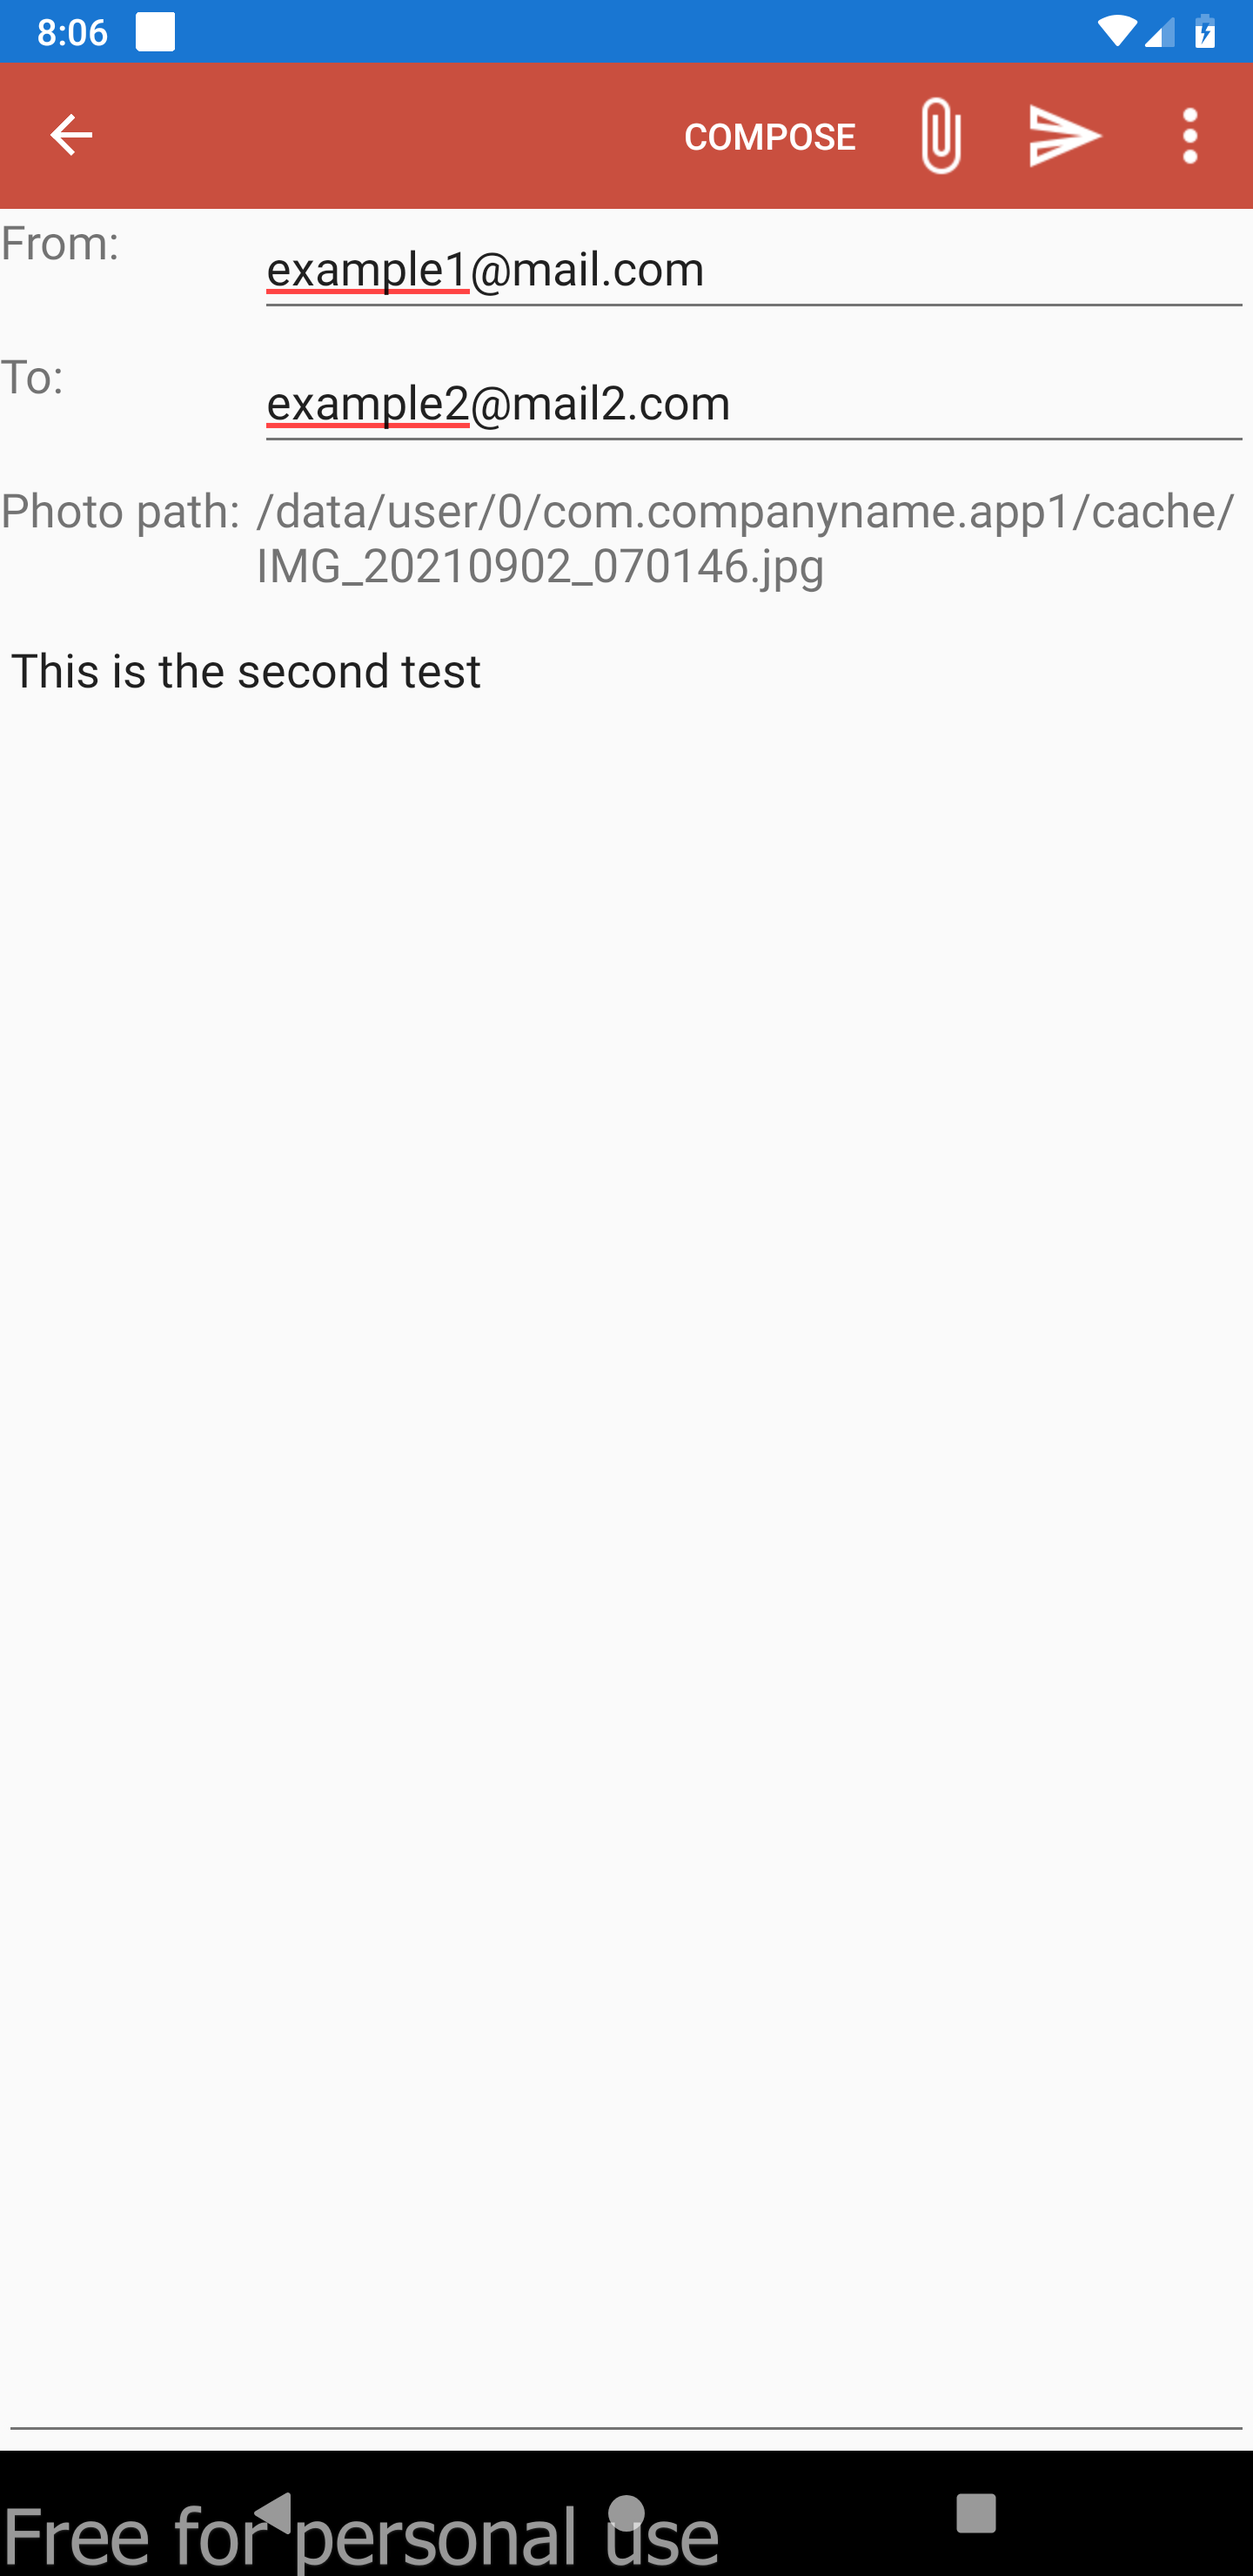
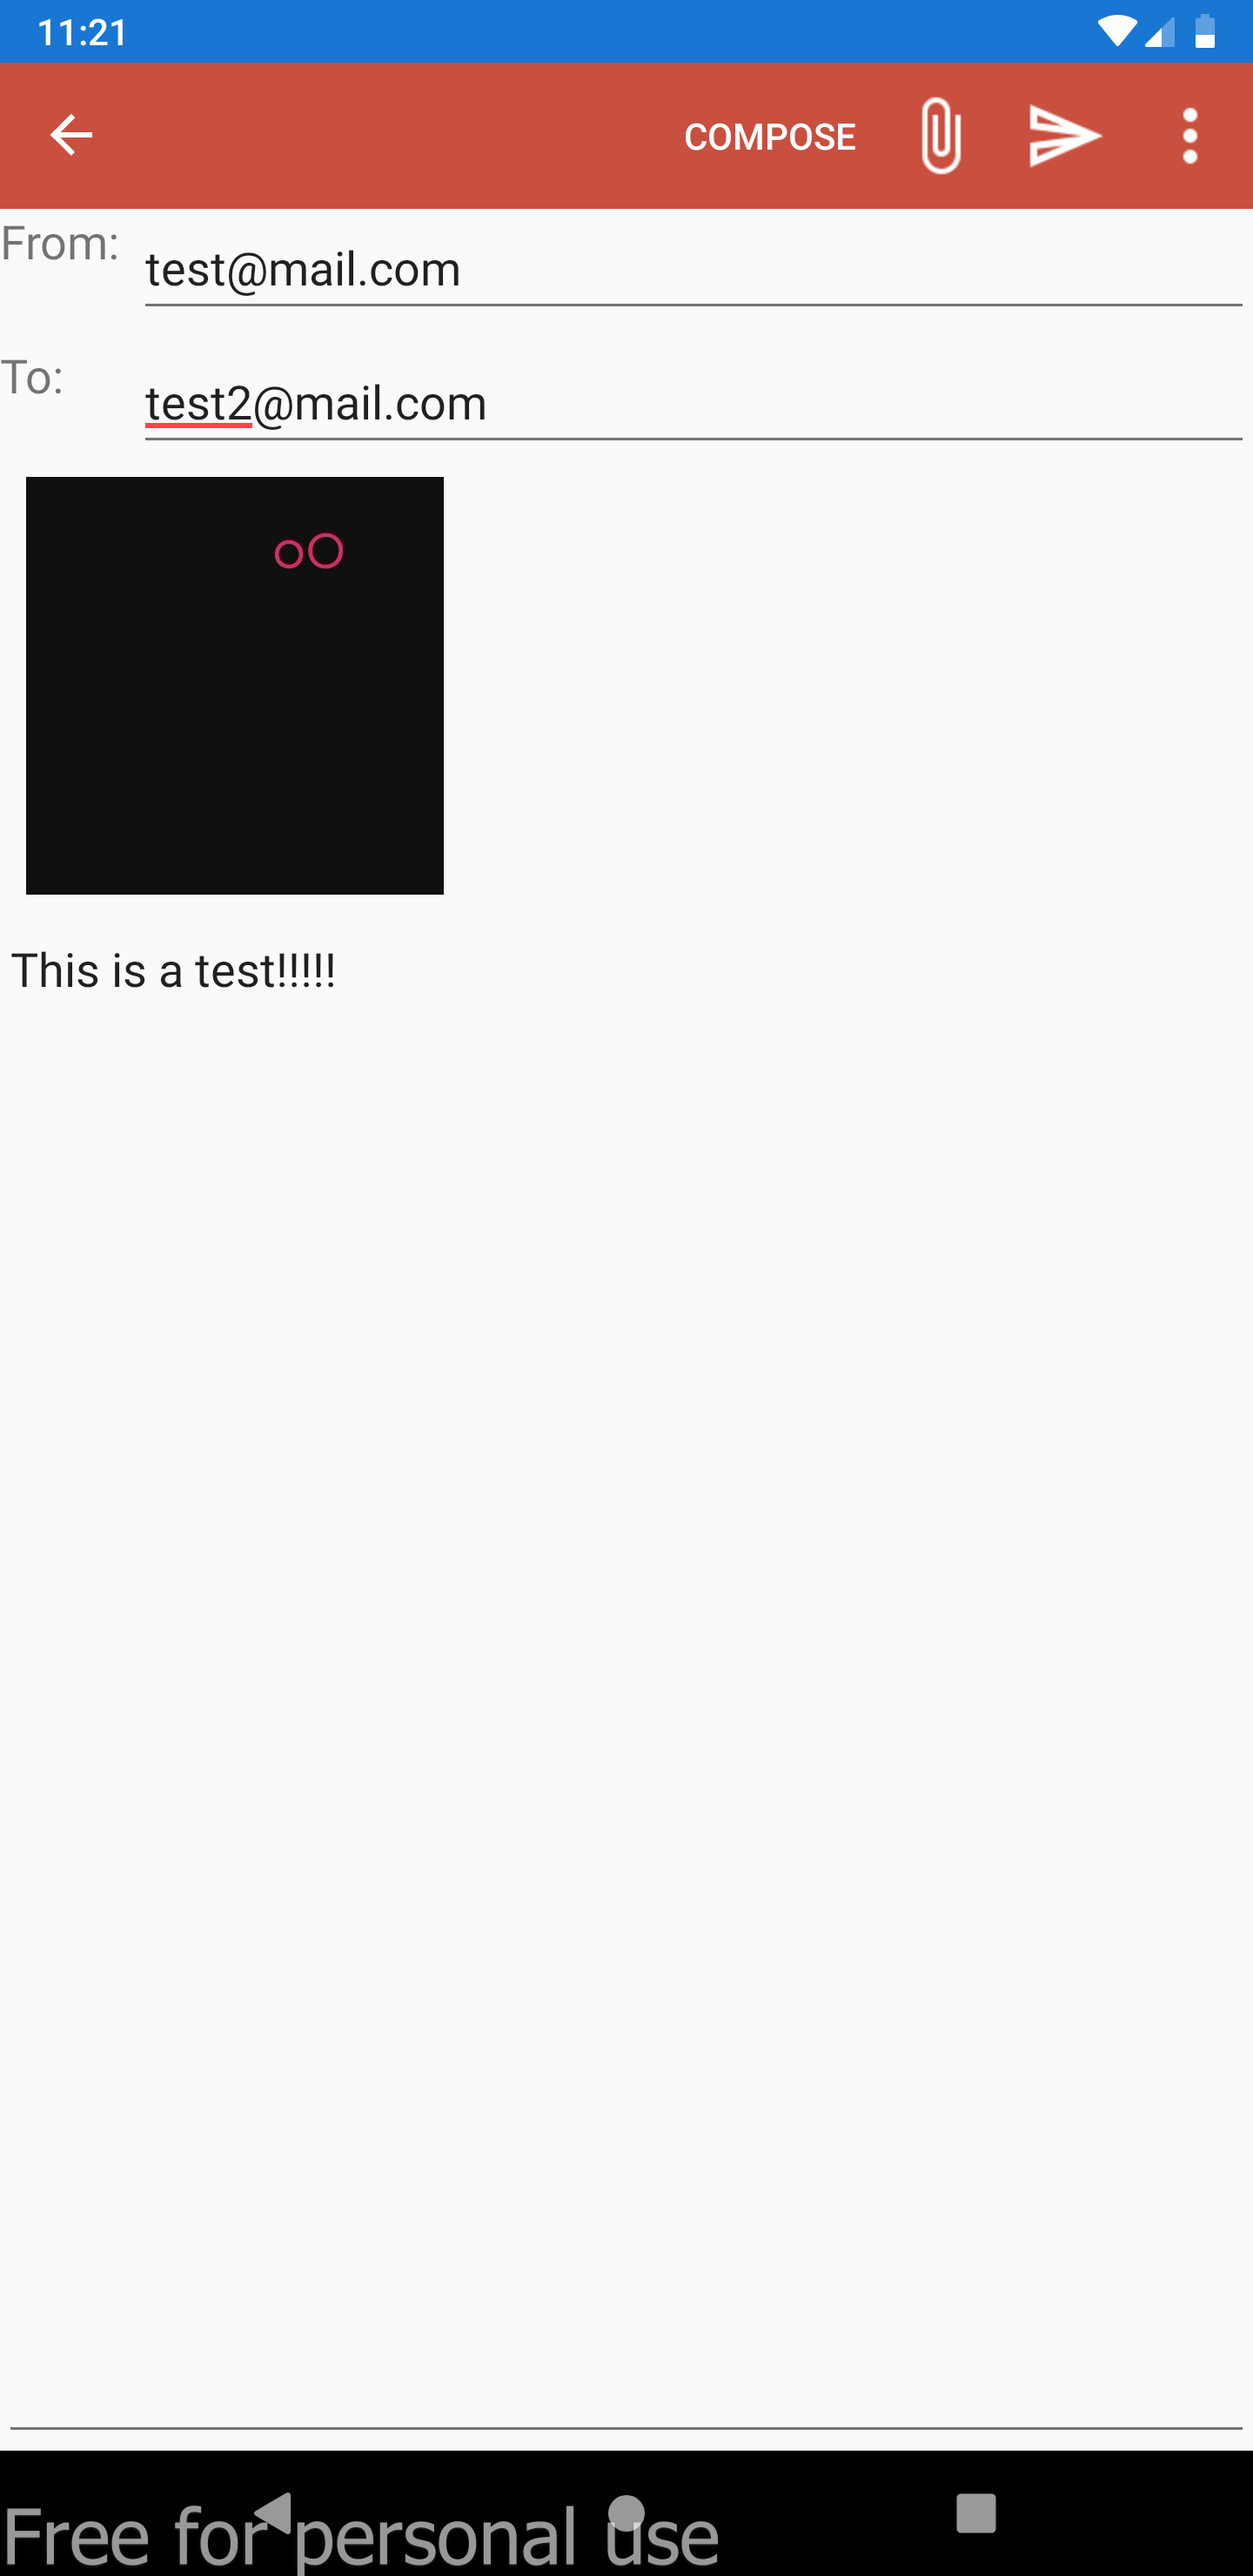
Refactor

Changed region(s): [[0.0, 0.1554, 0.9688, 0.4041], [0.125, 0.0932, 0.5625, 0.1243], [0.0312, 0.0, 0.1562, 0.0311]]

diff --git a/Practica 3/App1/App1/App1/Views/NewEmailPage.xaml b/Practica 3/App1/App1/App1/Views/NewEmailPage.xaml
@@ -47,22 +47,10 @@
             <Image
                 Grid.Row="2"
                 Grid.ColumnSpan="2"
+                Margin="10,0,0,0"
                 HorizontalOptions="Start"
-                Margin="20,0,0,0"
                 IsVisible="{Binding PhotoAttached}"
                 Source="{Binding PhotoPath}" />
-            <!--<Label
-                Grid.Row="2"
-                Grid.Column="0"
-                FontSize="Medium"
-                IsVisible="{Binding PhotoAttached}"
-                Text="Photo path:" />
-            <Label
-                Grid.Row="2"
-                Grid.Column="1"
-                FontSize="Medium"
-                IsVisible="{Binding PhotoAttached}"
-                Text="{Binding PhotoPath}" />-->
             <Editor
                 Grid.Row="3"
                 Grid.ColumnSpan="2"
